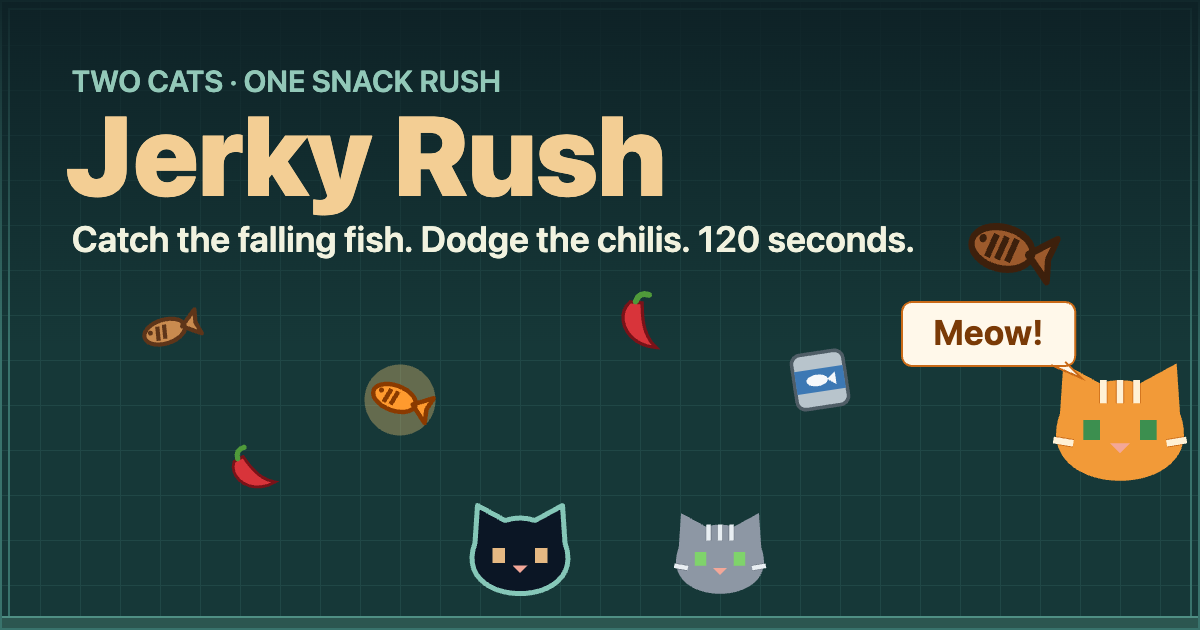
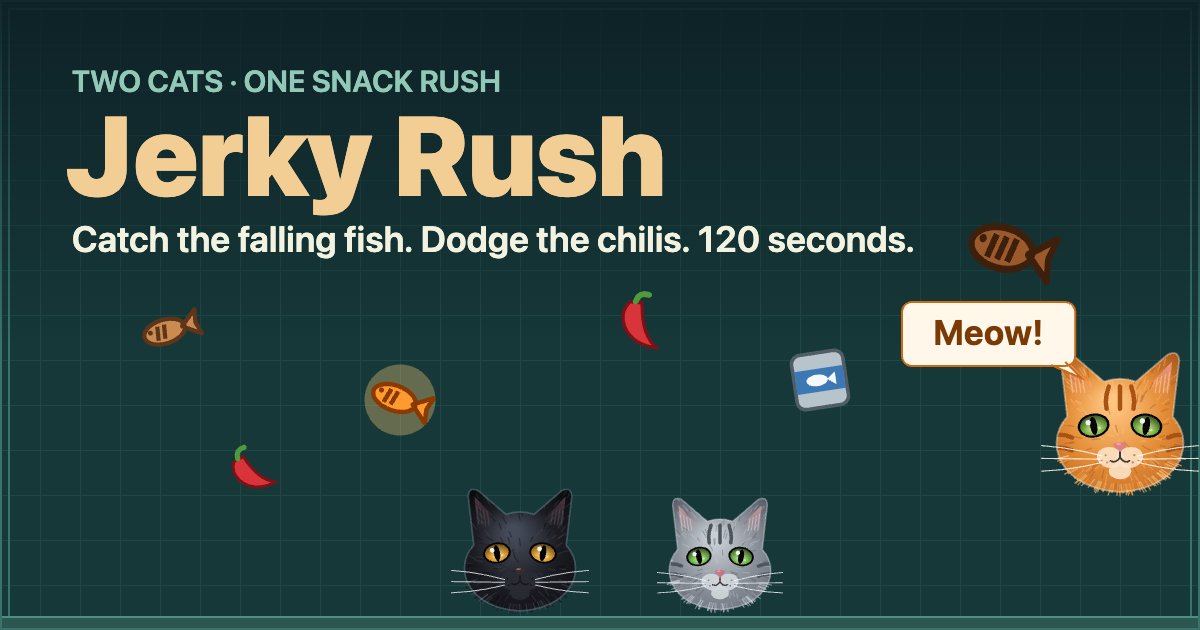
feat: draw the cats with realistic shading and fur
- Rewrote drawCat with gradient shading, fur strokes, pink inner ears, slit-pupil eyes, muzzle, and whiskers.
- The orange cat shares the same renderer; regenerated the share image.

Changed region(s): [[0.8633, 0.5429, 1.0, 0.7841], [0.37, 0.7841, 0.4933, 0.9651], [0.555, 0.7841, 0.6475, 0.9952]]

diff --git a/src/art.ts b/src/art.ts
@@ -3,17 +3,47 @@ import type { ItemKind } from './game/spawner';
 /** 全部角色與物品皆以 Canvas 2D 程式繪製，不使用外部素材（R9）。 */
 
 interface CatPalette {
+  /** 毛色：主色、亮部（受光的頭頂）、暗部（臉頰邊緣與下巴）。 */
   fur: string;
-  outline: string;
-  eye: string;
+  furLight: string;
+  furDark: string;
+  /** 輪廓光；讓深色貓在深色背景上仍看得清楚。 */
+  rim: string;
+  earInner: string;
+  /** 虹膜由瞳孔往外的兩個顏色。 */
+  iris: readonly [string, string];
+  /** 鼻口周圍（鬍鬚墊）的毛色。 */
+  muzzle: string;
+  nose: string;
+  whisker: string;
+  /** 虎斑紋；沒有就是純色貓。 */
   stripes?: string;
 }
 
 export const catPalettes = {
-  black: { fur: '#0b1625', outline: '#85c7b8', eye: '#e6b983' },
-  gray: { fur: '#8d97a4', outline: '#e8eef2', eye: '#7fd36b', stripes: '#69737f' },
-  orange: { fur: '#f29a38', outline: '#fff1d6', eye: '#3c8f4f', stripes: '#c96a17' },
+  black: {
+    fur: '#1c1d23', furLight: '#454b59', furDark: '#08090b', rim: '#7d93a1',
+    earInner: '#5b3c45', iris: ['#ffe08a', '#c47f12'], muzzle: '#2a2c34', nose: '#3b2b30', whisker: '#e6e9ee',
+  },
+  gray: {
+    fur: '#8b929b', furLight: '#c9cfd5', furDark: '#565c65', rim: '#e3e8ec',
+    earInner: '#d99aa1', iris: ['#d4f59a', '#4f9a33'], muzzle: '#d3d8dc', nose: '#c4747e', whisker: '#f7f9fa',
+    stripes: '#4f555d',
+  },
+  orange: {
+    fur: '#e48d37', furLight: '#ffc581', furDark: '#a9561a', rim: '#fff0da',
+    earInner: '#f0a39d', iris: ['#e0f59a', '#5a982d'], muzzle: '#fbe3c6', nose: '#e07c85', whisker: '#fffaf2',
+    stripes: '#a95213',
+  },
 } satisfies Record<string, CatPalette>;
+
+/** 固定種子的亂數，讓毛流筆觸每次重畫都一樣。 */
+function seededRandom(seed: number): () => number {
+  return () => {
+    seed = (seed * 1664525 + 1013904223) >>> 0;
+    return seed / 4294967296;
+  };
+}
 
 export function drawArena(ctx: CanvasRenderingContext2D, width: number, height: number, groundHeight: number): void {
   ctx.fillStyle = '#163838';
@@ -42,53 +72,213 @@ export function drawArena(ctx: CanvasRenderingContext2D, width: number, height: 
   ctx.fillRect(2, groundTop, width - 4, 2);
 }
 
-/** 俯視貓頭；畫在 size×size 的方格中。 */
+/** 單位座標（0–1）的貓頭外形：圓頰、略尖的耳朵、柔和的下巴。 */
+function headPath(ctx: CanvasRenderingContext2D): void {
+  ctx.beginPath();
+  ctx.moveTo(0.17, 0.48);
+  ctx.lineTo(0.13, 0.13);
+  ctx.quadraticCurveTo(0.135, 0.06, 0.2, 0.09);
+  ctx.lineTo(0.4, 0.26);
+  ctx.quadraticCurveTo(0.5, 0.225, 0.6, 0.26);
+  ctx.lineTo(0.8, 0.09);
+  ctx.quadraticCurveTo(0.865, 0.06, 0.87, 0.13);
+  ctx.lineTo(0.83, 0.48);
+  ctx.bezierCurveTo(0.98, 0.64, 0.88, 0.93, 0.5, 0.95);
+  ctx.bezierCurveTo(0.12, 0.93, 0.02, 0.64, 0.17, 0.48);
+  ctx.closePath();
+}
+
+function drawEye(ctx: CanvasRenderingContext2D, x: number, y: number, tilt: number, palette: CatPalette): void {
+  ctx.save();
+  ctx.translate(x, y);
+  ctx.rotate(tilt);
+  // 眼眶的深色描邊，再畫有漸層的虹膜。
+  ctx.fillStyle = '#060608';
+  ctx.beginPath();
+  ctx.ellipse(0, 0, 0.1, 0.075, 0, 0, Math.PI * 2);
+  ctx.fill();
+  const iris = ctx.createRadialGradient(0, 0.01, 0.005, 0, 0, 0.085);
+  iris.addColorStop(0, palette.iris[0]);
+  iris.addColorStop(1, palette.iris[1]);
+  ctx.fillStyle = iris;
+  ctx.beginPath();
+  ctx.ellipse(0, 0, 0.085, 0.062, 0, 0, Math.PI * 2);
+  ctx.fill();
+  // 上眼瞼的陰影。
+  const lid = ctx.createLinearGradient(0, -0.062, 0, 0.02);
+  lid.addColorStop(0, '#00000080');
+  lid.addColorStop(1, '#00000000');
+  ctx.fillStyle = lid;
+  ctx.fill();
+  // 直立的縫狀瞳孔與反光。
+  ctx.fillStyle = '#050505';
+  ctx.beginPath();
+  ctx.ellipse(0, 0.002, 0.022, 0.058, 0, 0, Math.PI * 2);
+  ctx.fill();
+  ctx.fillStyle = '#ffffffe6';
+  ctx.beginPath();
+  ctx.arc(-0.03, -0.024, 0.017, 0, Math.PI * 2);
+  ctx.fill();
+  ctx.fillStyle = '#ffffff80';
+  ctx.beginPath();
+  ctx.arc(0.035, 0.022, 0.008, 0, Math.PI * 2);
+  ctx.fill();
+  ctx.restore();
+}
+
+/** 正面的貓頭（光影、毛流、杏仁眼、鬍鬚）；畫在 size×size 的方格中。 */
 export function drawCat(ctx: CanvasRenderingContext2D, size: number, palette: CatPalette): void {
   ctx.save();
-  ctx.scale(size / 48, size / 48);
-  ctx.fillStyle = palette.fur;
-  ctx.strokeStyle = palette.outline;
-  ctx.lineWidth = 2;
+  ctx.scale(size, size);
+  ctx.lineCap = 'round';
   ctx.lineJoin = 'round';
-  ctx.beginPath();
-  ctx.moveTo(6, 22);
-  ctx.lineTo(7, 7);
-  ctx.lineTo(18, 13);
-  ctx.quadraticCurveTo(24, 11, 30, 13);
-  ctx.lineTo(41, 7);
-  ctx.lineTo(42, 22);
-  ctx.bezierCurveTo(52, 49, -4, 49, 6, 22);
-  ctx.closePath();
+
+  // 底色：頭頂受光、邊緣與下巴較暗，做出立體感。
+  headPath(ctx);
+  const shade = ctx.createRadialGradient(0.45, 0.38, 0.04, 0.5, 0.6, 0.62);
+  shade.addColorStop(0, palette.furLight);
+  shade.addColorStop(0.45, palette.fur);
+  shade.addColorStop(1, palette.furDark);
+  ctx.fillStyle = shade;
   ctx.fill();
 
-  if (palette.stripes) {
-    ctx.save();
-    ctx.clip();
-    ctx.strokeStyle = palette.stripes;
-    ctx.lineWidth = 2.5;
+  ctx.save();
+  ctx.clip();
+
+  // 內耳：由耳尖往耳根淡出的粉色，加上耳毛。
+  for (const side of [-1, 1]) {
+    const ear = ctx.createLinearGradient(0.5 + side * 0.32, 0.14, 0.5 + side * 0.24, 0.36);
+    ear.addColorStop(0, `${palette.earInner}dd`);
+    ear.addColorStop(1, `${palette.earInner}00`);
+    ctx.fillStyle = ear;
     ctx.beginPath();
-    for (const x of [19, 24, 29]) {
-      ctx.moveTo(x, 12);
-      ctx.lineTo(x, 19);
+    ctx.moveTo(0.5 + side * 0.325, 0.135);
+    ctx.quadraticCurveTo(0.5 + side * 0.26, 0.2, 0.5 + side * 0.17, 0.295);
+    ctx.lineTo(0.5 + side * 0.3, 0.4);
+    ctx.closePath();
+    ctx.fill();
+    ctx.strokeStyle = `${palette.furLight}aa`;
+    ctx.lineWidth = 0.008;
+    ctx.beginPath();
+    for (let i = 0; i < 4; i++) {
+      const baseX = 0.5 + side * (0.22 + i * 0.025);
+      ctx.moveTo(baseX, 0.33);
+      ctx.lineTo(baseX + side * 0.015, 0.24 - i * 0.012);
     }
-    ctx.moveTo(4, 30);
-    ctx.lineTo(10, 31);
-    ctx.moveTo(44, 30);
-    ctx.lineTo(38, 31);
     ctx.stroke();
-    ctx.restore();
   }
+
+  // 毛流：從臉中心往外放射的短筆觸，亮暗交錯。
+  const random = seededRandom(palette.fur.length * 977 + palette.fur.charCodeAt(1));
+  ctx.lineWidth = 0.009;
+  for (let i = 0; i < 220; i++) {
+    const x = 0.08 + random() * 0.84;
+    const y = 0.1 + random() * 0.86;
+    const angle = Math.atan2(y - 0.62, x - 0.5) + (random() - 0.5) * 0.6;
+    const length = 0.025 + random() * 0.035;
+    ctx.strokeStyle = random() < 0.5 ? `${palette.furLight}55` : `${palette.furDark}66`;
+    ctx.beginPath();
+    ctx.moveTo(x, y);
+    ctx.lineTo(x + Math.cos(angle) * length, y + Math.sin(angle) * length);
+    ctx.stroke();
+  }
+
+  // 虎斑：額頭的 M 字紋與臉頰的橫紋。
+  if (palette.stripes) {
+    ctx.strokeStyle = palette.stripes;
+    ctx.lineWidth = 0.028;
+    ctx.beginPath();
+    for (const x of [0.43, 0.5, 0.57]) {
+      ctx.moveTo(x, 0.29);
+      ctx.quadraticCurveTo(x + (x - 0.5) * 0.4, 0.37, x + (x - 0.5) * 0.2, 0.43);
+    }
+    for (const side of [-1, 1]) {
+      for (const y of [0.6, 0.68]) {
+        ctx.moveTo(0.5 + side * 0.44, y);
+        ctx.quadraticCurveTo(0.5 + side * 0.36, y - 0.02, 0.5 + side * 0.3, y + 0.01);
+      }
+    }
+    ctx.stroke();
+  }
+
+  // 鼻口：較淺的鬍鬚墊與下巴。
+  ctx.fillStyle = palette.muzzle;
+  ctx.globalAlpha = 0.9;
+  for (const [x, y, rx, ry, tilt] of [[0.44, 0.735, 0.085, 0.065, 0.2], [0.56, 0.735, 0.085, 0.065, -0.2], [0.5, 0.82, 0.07, 0.05, 0]] as const) {
+    ctx.beginPath();
+    ctx.ellipse(x, y, rx, ry, tilt, 0, Math.PI * 2);
+    ctx.fill();
+  }
+  ctx.globalAlpha = 1;
+  ctx.fillStyle = `${palette.furDark}99`;
+  for (const [x, y] of [[0.41, 0.72], [0.385, 0.75], [0.42, 0.765], [0.59, 0.72], [0.615, 0.75], [0.58, 0.765]] as const) {
+    ctx.beginPath();
+    ctx.arc(x, y, 0.007, 0, Math.PI * 2);
+    ctx.fill();
+  }
+  ctx.restore();
+
+  // 臉頰與下巴邊緣的細毛，從輪廓內往外刷出，讓邊緣不像貼紙那麼平滑。
+  ctx.lineWidth = 0.008;
+  for (let i = 0; i < 60; i++) {
+    // 下半臉的輪廓約為以 (0.5, 0.64) 為中心、半徑 (0.40, 0.31) 的橢圓。
+    const angle = Math.PI * (0.1 + random() * 0.8);
+    const from = 0.85;
+    const to = 1 + random() * 0.08;
+    const dx = Math.cos(angle) * 0.4;
+    const dy = Math.sin(angle) * 0.31;
+    ctx.strokeStyle = random() < 0.6 ? palette.fur : `${palette.furLight}99`;
+    ctx.beginPath();
+    ctx.moveTo(0.5 + dx * from, 0.64 + dy * from);
+    ctx.lineTo(0.5 + dx * to + (random() - 0.5) * 0.015, 0.64 + dy * to);
+    ctx.stroke();
+  }
+
+  // 細微的輪廓光：深色貓在深色背景上也看得出頭形。
+  headPath(ctx);
+  ctx.strokeStyle = `${palette.rim}66`;
+  ctx.lineWidth = 0.012;
   ctx.stroke();
 
-  ctx.fillStyle = palette.eye;
-  ctx.fillRect(13, 24, 5, 6);
-  ctx.fillRect(30, 24, 5, 6);
-  ctx.fillStyle = '#f3a798';
+  drawEye(ctx, 0.335, 0.535, -0.18, palette);
+  drawEye(ctx, 0.665, 0.535, 0.18, palette);
+
+  // 鼻子與嘴。
+  const nose = ctx.createLinearGradient(0, 0.64, 0, 0.7);
+  nose.addColorStop(0, palette.nose);
+  nose.addColorStop(1, `${palette.nose}cc`);
+  ctx.fillStyle = nose;
   ctx.beginPath();
-  ctx.moveTo(21, 31);
-  ctx.lineTo(27, 31);
-  ctx.lineTo(24, 34);
+  ctx.moveTo(0.455, 0.65);
+  ctx.quadraticCurveTo(0.5, 0.63, 0.545, 0.65);
+  ctx.quadraticCurveTo(0.53, 0.68, 0.5, 0.7);
+  ctx.quadraticCurveTo(0.47, 0.68, 0.455, 0.65);
   ctx.fill();
+  ctx.fillStyle = '#ffffff55';
+  ctx.beginPath();
+  ctx.ellipse(0.49, 0.651, 0.017, 0.007, 0, 0, Math.PI * 2);
+  ctx.fill();
+  ctx.strokeStyle = '#140d0fcc';
+  ctx.lineWidth = 0.011;
+  ctx.beginPath();
+  ctx.moveTo(0.5, 0.7);
+  ctx.lineTo(0.5, 0.735);
+  ctx.quadraticCurveTo(0.47, 0.775, 0.44, 0.755);
+  ctx.moveTo(0.5, 0.735);
+  ctx.quadraticCurveTo(0.53, 0.775, 0.56, 0.755);
+  ctx.stroke();
+
+  // 鬍鬚：從鬍鬚墊微微彎曲地往外伸。
+  ctx.strokeStyle = `${palette.whisker}d9`;
+  for (const side of [-1, 1]) {
+    for (const [startY, endY, bend] of [[0.725, 0.66, -0.02], [0.745, 0.74, 0], [0.765, 0.82, 0.02]] as const) {
+      ctx.lineWidth = 0.007;
+      ctx.beginPath();
+      ctx.moveTo(0.5 + side * 0.11, startY);
+      ctx.quadraticCurveTo(0.5 + side * 0.3, (startY + endY) / 2 + bend, 0.5 + side * 0.49, endY);
+      ctx.stroke();
+    }
+  }
   ctx.restore();
 }
 
